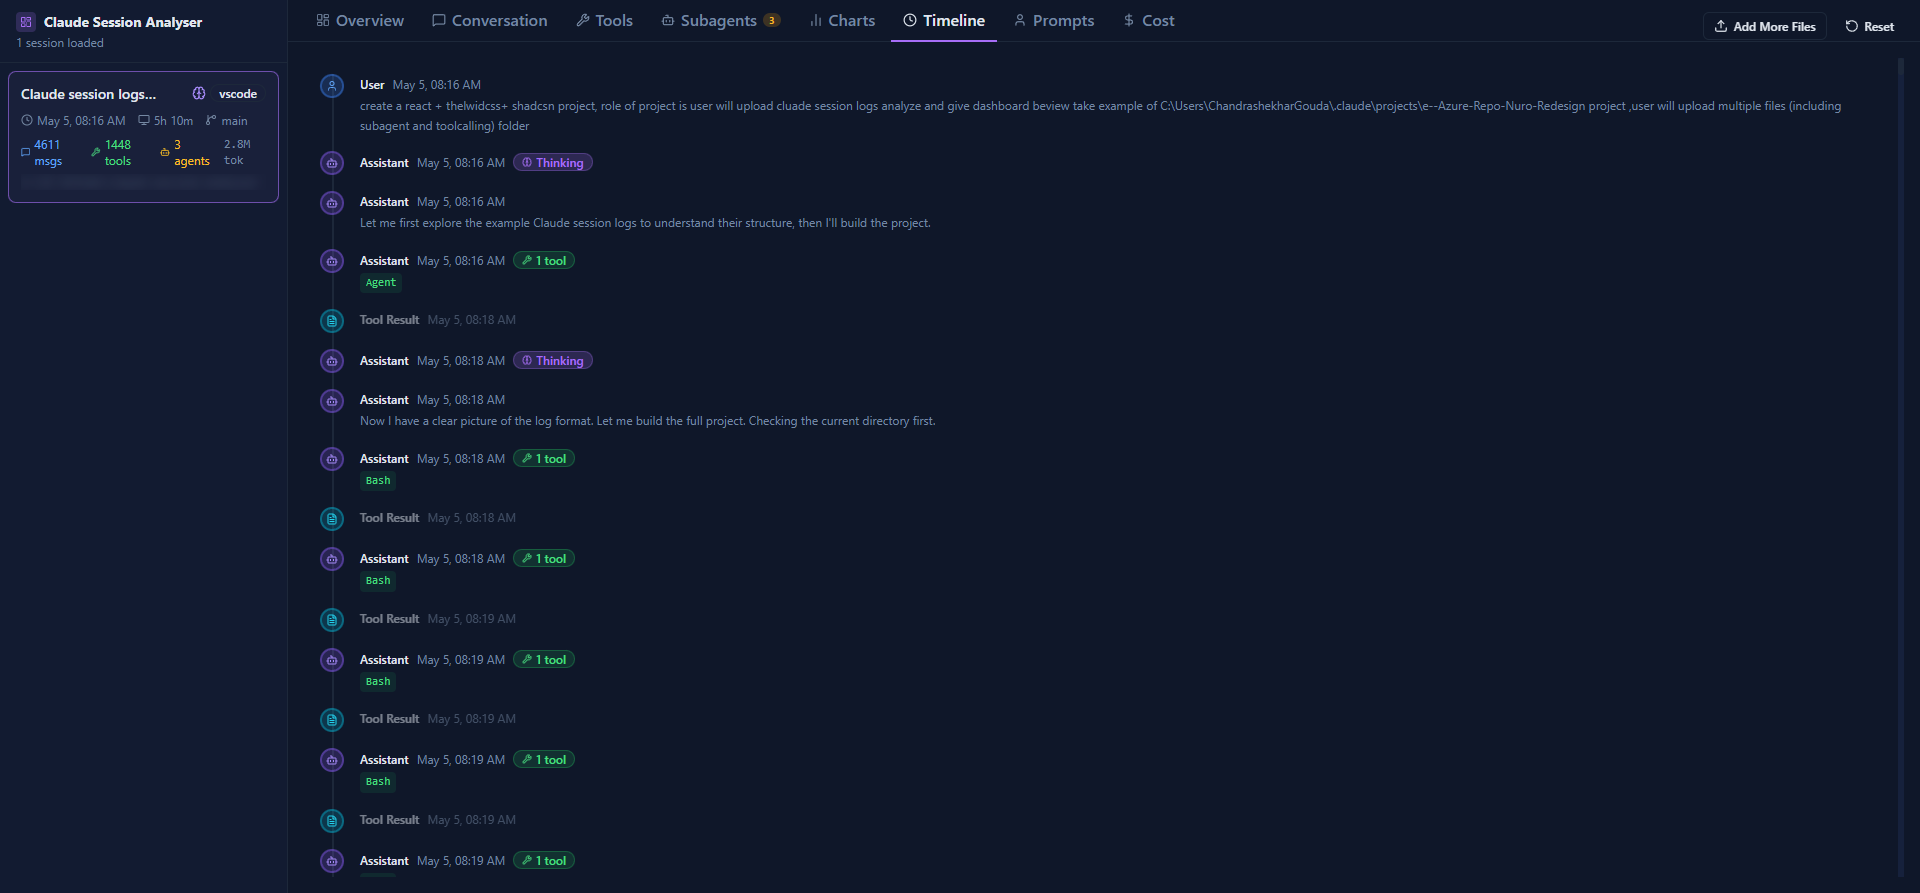
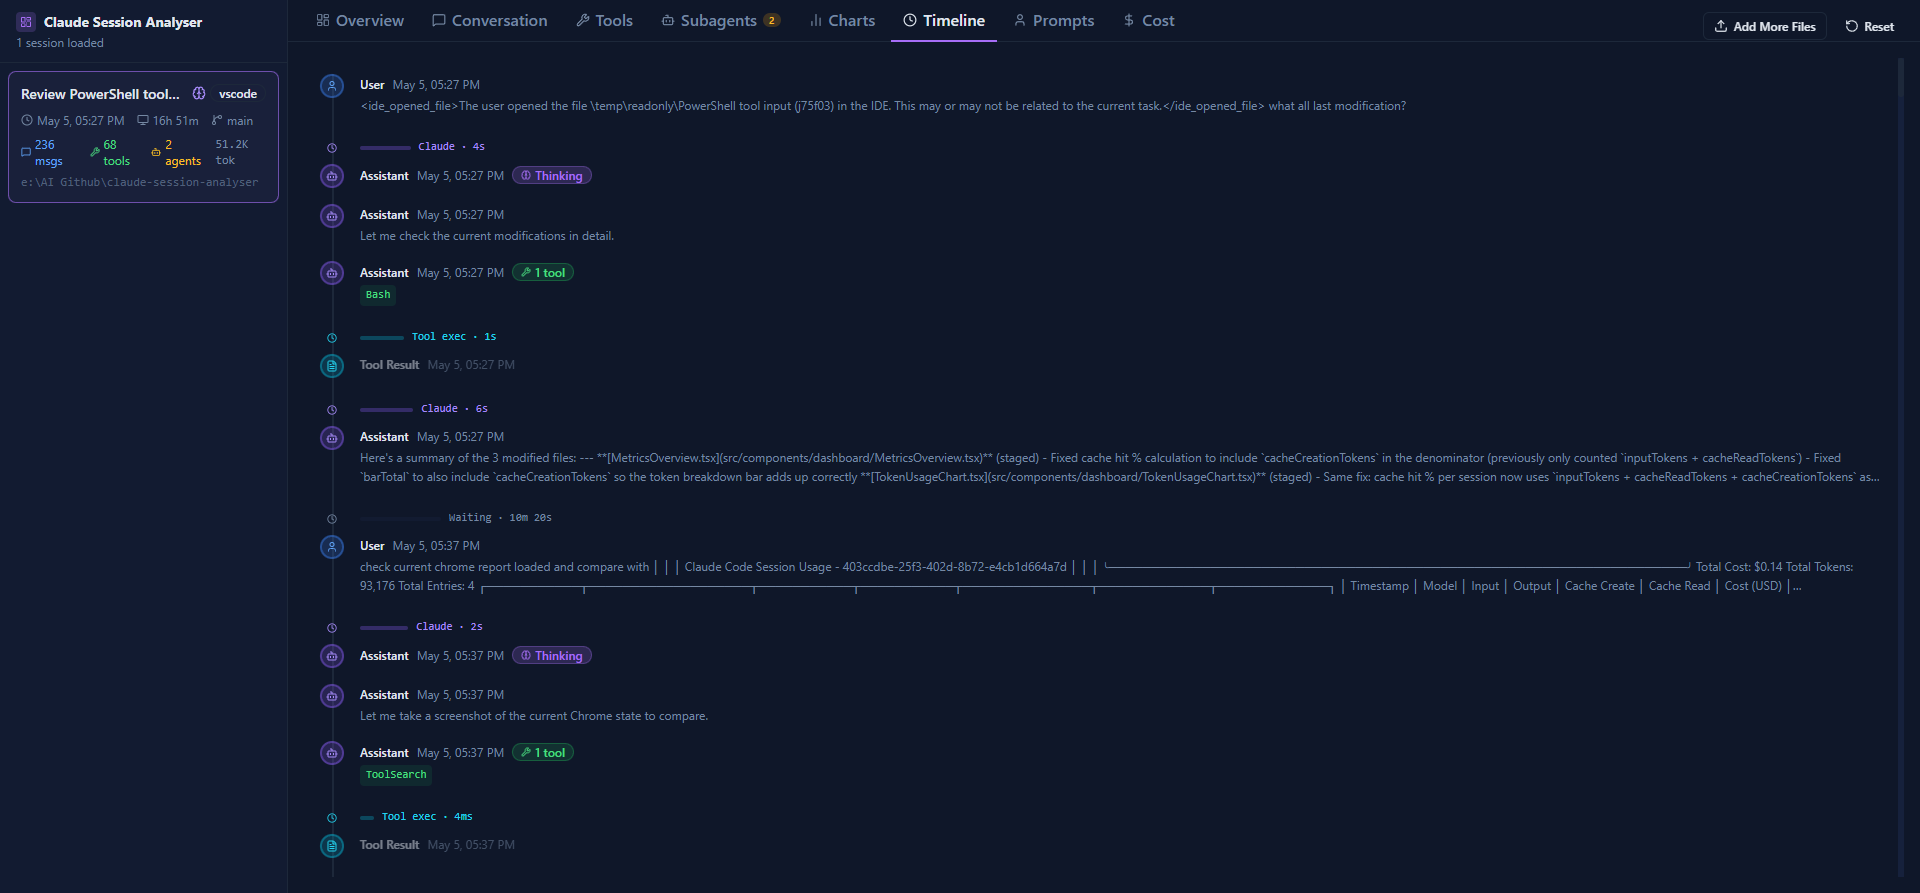
added wait in timeline

diff --git a/src/components/dashboard/TimelineView.tsx b/src/components/dashboard/TimelineView.tsx
@@ -1,7 +1,8 @@
-import { User, Bot, Wrench, Brain, Bot as AgentIcon, Settings, FileText } from "lucide-react"
+import { User, Bot, Wrench, Brain, Bot as AgentIcon, Settings, FileText, Clock } from "lucide-react"
 import { ScrollArea } from "@/components/ui/scroll-area"
 import { Badge } from "@/components/ui/badge"
-import { formatTimestamp } from "@/utils/logParser"
+import { Tooltip } from "@/components/ui/tooltip"
+import { formatTimestamp, formatDuration, formatNumber } from "@/utils/logParser"
 import type { ParsedMessage, ContentBlock } from "@/types/logs"
 import { cn } from "@/lib/utils"
 
@@ -13,6 +14,156 @@ function isToolResultOnly(blocks: ContentBlock[]): boolean {
   })
   return nonEmpty.length > 0 && nonEmpty.every((b) => b.type === "tool_result")
 }
+
+type GapKind = "claude-gen" | "tool-exec" | "user-wait"
+
+interface Gap {
+  kind: GapKind
+  ms: number
+  fromTs: string
+  toTs: string
+}
+
+function classifyGap(prev: ParsedMessage, next: ParsedMessage): Gap | null {
+  const ms = new Date(next.timestamp).getTime() - new Date(prev.timestamp).getTime()
+  if (ms <= 0) return null
+
+  const prevIsAssistantWithTools = prev.role === "assistant" && prev.toolCalls.length > 0
+  const nextIsToolResult = next.role === "user" && !next.isMeta && isToolResultOnly(next.contentBlocks)
+  const prevIsToolResult = prev.role === "user" && !prev.isMeta && isToolResultOnly(prev.contentBlocks)
+  const prevIsUser = prev.role === "user" && !prev.isMeta && !isToolResultOnly(prev.contentBlocks)
+
+  const base = { ms, fromTs: prev.timestamp, toTs: next.timestamp }
+
+  if (prevIsAssistantWithTools && nextIsToolResult) return { kind: "tool-exec", ...base }
+  if ((prevIsUser || prevIsToolResult) && next.role === "assistant" && !next.isMeta) return { kind: "claude-gen", ...base }
+  if (prev.role === "assistant" && !prev.isMeta && next.role === "user" && !next.isMeta && !nextIsToolResult) return { kind: "user-wait", ...base }
+  return null
+}
+
+// ── Tooltip content builders ──────────────────────────────────────────────────
+
+function TooltipRow({ label, value, className }: { label: string; value: React.ReactNode; className?: string }) {
+  return (
+    <div className="flex items-start gap-2">
+      <span className="text-muted-foreground shrink-0 w-20">{label}</span>
+      <span className={cn("font-medium text-foreground", className)}>{value}</span>
+    </div>
+  )
+}
+
+function AssistantTooltip({ message }: { message: ParsedMessage }) {
+  const u = message.usage
+  return (
+    <div className="flex flex-col gap-1 min-w-[200px] max-w-xs">
+      <div className="font-semibold text-violet-400 mb-1">Assistant</div>
+      {message.model && <TooltipRow label="Model" value={message.model.replace("claude-", "Claude ")} />}
+      <TooltipRow label="Time" value={formatTimestamp(message.timestamp)} />
+      {u && (
+        <>
+          <div className="border-t border-border my-1" />
+          <TooltipRow label="Input" value={`${formatNumber(u.input_tokens ?? 0)} tok`} />
+          <TooltipRow label="Output" value={`${formatNumber(u.output_tokens ?? 0)} tok`} />
+          {(u.cache_read_input_tokens ?? 0) > 0 && (
+            <TooltipRow label="Cache read" value={`${formatNumber(u.cache_read_input_tokens ?? 0)} tok`} className="text-cyan-400" />
+          )}
+          {(u.cache_creation_input_tokens ?? 0) > 0 && (
+            <TooltipRow label="Cache write" value={`${formatNumber(u.cache_creation_input_tokens ?? 0)} tok`} className="text-yellow-400" />
+          )}
+        </>
+      )}
+      {message.hasThinking && <TooltipRow label="Thinking" value="yes" className="text-pink-400" />}
+      {message.toolCalls.length > 0 && (
+        <>
+          <div className="border-t border-border my-1" />
+          <div className="text-muted-foreground mb-0.5">Tools called</div>
+          {message.toolCalls.map((tc) => (
+            <span key={tc.id} className="font-mono text-[11px] text-green-400">{tc.name}</span>
+          ))}
+        </>
+      )}
+      {message.textContent && (
+        <>
+          <div className="border-t border-border my-1" />
+          <p className="text-muted-foreground leading-relaxed line-clamp-4 whitespace-normal">
+            {message.textContent.slice(0, 300)}{message.textContent.length > 300 ? "…" : ""}
+          </p>
+        </>
+      )}
+    </div>
+  )
+}
+
+function UserTooltip({ message }: { message: ParsedMessage }) {
+  return (
+    <div className="flex flex-col gap-1 min-w-[180px] max-w-xs">
+      <div className="font-semibold text-blue-400 mb-1">User</div>
+      <TooltipRow label="Time" value={formatTimestamp(message.timestamp)} />
+      {message.textContent && (
+        <>
+          <div className="border-t border-border my-1" />
+          <p className="text-muted-foreground leading-relaxed whitespace-normal line-clamp-6">
+            {message.textContent.slice(0, 400)}{message.textContent.length > 400 ? "…" : ""}
+          </p>
+        </>
+      )}
+    </div>
+  )
+}
+
+function ToolResultTooltip({ message }: { message: ParsedMessage }) {
+  const results = message.contentBlocks.filter((b) => b.type === "tool_result") as Array<{
+    type: "tool_result"
+    tool_use_id?: string
+    content?: string | Array<{ type: string; text?: string }>
+  }>
+
+  return (
+    <div className="flex flex-col gap-1 min-w-[200px] max-w-xs">
+      <div className="font-semibold text-cyan-400 mb-1">Tool Result</div>
+      <TooltipRow label="Time" value={formatTimestamp(message.timestamp)} />
+      <TooltipRow label="Results" value={`${results.length} block${results.length !== 1 ? "s" : ""}`} />
+      {results.slice(0, 3).map((r, i) => {
+        const text = typeof r.content === "string"
+          ? r.content
+          : Array.isArray(r.content)
+            ? r.content.map((c) => c.text ?? "").join(" ")
+            : ""
+        return text ? (
+          <div key={i} className="border-t border-border mt-1 pt-1">
+            {r.tool_use_id && (
+              <span className="font-mono text-[10px] text-muted-foreground">{r.tool_use_id.slice(0, 16)}</span>
+            )}
+            <p className="text-muted-foreground leading-relaxed whitespace-normal line-clamp-3 mt-0.5">
+              {text.slice(0, 300)}{text.length > 300 ? "…" : ""}
+            </p>
+          </div>
+        ) : null
+      })}
+    </div>
+  )
+}
+
+function GapTooltip({ gap }: { gap: Gap }) {
+  const labels: Record<GapKind, { title: string; color: string; desc: string }> = {
+    "claude-gen": { title: "Claude generation", color: "text-violet-400", desc: "Time Claude spent thinking and generating the response" },
+    "tool-exec":  { title: "Tool execution",    color: "text-cyan-400",   desc: "Time the tool took to run — Claude was idle" },
+    "user-wait":  { title: "Waiting for user",  color: "text-muted-foreground", desc: "Time before the next user message" },
+  }
+  const { title, color, desc } = labels[gap.kind]
+  return (
+    <div className="flex flex-col gap-1 min-w-[180px] max-w-xs">
+      <div className={cn("font-semibold mb-1", color)}>{title}</div>
+      <TooltipRow label="Duration" value={formatDuration(gap.ms)} />
+      <TooltipRow label="From" value={formatTimestamp(gap.fromTs)} />
+      <TooltipRow label="To" value={formatTimestamp(gap.toTs)} />
+      <div className="border-t border-border my-1" />
+      <p className="text-muted-foreground whitespace-normal">{desc}</p>
+    </div>
+  )
+}
+
+// ── Main components ───────────────────────────────────────────────────────────
 
 interface TimelineViewProps {
   messages: ParsedMessage[]
@@ -34,16 +185,50 @@ export function TimelineView({ messages }: TimelineViewProps) {
   return (
     <ScrollArea className="h-full">
       <div className="relative py-4 pr-4">
-        {/* Vertical line — left-7 = 28px aligns to dot center (pl-4=16px + w-6/2=12px) */}
         <div className="absolute left-7 top-4 bottom-4 w-0.5 bg-border" />
 
         <div className="flex flex-col gap-0">
-          {sorted.map((msg, i) => (
-            <TimelineEntry key={msg.uuid} message={msg} isLast={i === sorted.length - 1} />
-          ))}
+          {sorted.map((msg, i) => {
+            const next = sorted[i + 1]
+            const gap = next ? classifyGap(msg, next) : null
+            return (
+              <div key={msg.uuid}>
+                <TimelineEntry message={msg} isLast={i === sorted.length - 1 && !gap} />
+                {gap && <GapIndicator gap={gap} />}
+              </div>
+            )
+          })}
         </div>
       </div>
     </ScrollArea>
+  )
+}
+
+function GapIndicator({ gap }: { gap: Gap }) {
+  const configs: Record<GapKind, { label: string; bar: string; text: string }> = {
+    "claude-gen": { label: "Claude",    bar: "bg-violet-500/30", text: "text-violet-400" },
+    "tool-exec":  { label: "Tool exec", bar: "bg-cyan-500/30",   text: "text-cyan-400"   },
+    "user-wait":  { label: "Waiting",   bar: "bg-muted/40",      text: "text-muted-foreground" },
+  }
+
+  const { label, bar, text } = configs[gap.kind]
+  const width = Math.min(100, Math.max(4, Math.log10(Math.max(gap.ms, 10)) * 14))
+
+  return (
+    <div className="relative flex gap-4 pl-4 py-1">
+      <div className="flex h-6 w-6 shrink-0 items-center justify-center">
+        <Tooltip content={<GapTooltip gap={gap} />} side="right">
+          <Clock className={cn("h-2.5 w-2.5 cursor-default", text)} />
+        </Tooltip>
+      </div>
+
+      <div className="flex items-center gap-2 flex-1 min-w-0">
+        <div className={cn("h-1 rounded-full", bar)} style={{ width: `${width}px` }} />
+        <span className={cn("text-[11px] font-mono tabular-nums", text)}>
+          {label} · {formatDuration(gap.ms)}
+        </span>
+      </div>
+    </div>
   )
 }
 
@@ -52,6 +237,7 @@ function TimelineEntry({ message, isLast }: { message: ParsedMessage; isLast: bo
   const isSidechain = message.isSidechain
   const isToolReturn = message.role === "user" && !isMeta && isToolResultOnly(message.contentBlocks)
   const isUser = message.role === "user" && !isMeta && !isToolReturn
+  const isAssistant = message.role === "assistant" && !isMeta
   const hasToolCalls = message.toolCalls.length > 0
   const hasThinking = message.hasThinking
 
@@ -77,22 +263,32 @@ function TimelineEntry({ message, isLast }: { message: ParsedMessage; isLast: bo
 
   const label = isMeta ? "System" : isToolReturn ? "Tool Result" : isUser ? "User" : isSidechain ? "Subagent" : "Assistant"
 
+  const tooltipContent = isAssistant
+    ? <AssistantTooltip message={message} />
+    : isUser
+      ? <UserTooltip message={message} />
+      : isToolReturn
+        ? <ToolResultTooltip message={message} />
+        : null
+
   return (
     <div className={cn("relative flex gap-4 pl-4 pb-4", isLast && "pb-0")}>
-      {/* Dot */}
-      <div className={cn("relative z-10 flex h-6 w-6 shrink-0 items-center justify-center rounded-full border-2", dotColor)}>
-        {icon}
-      </div>
+      {/* Dot — wrapped in tooltip */}
+      <Tooltip content={tooltipContent} side="right">
+        <div className={cn(
+          "relative z-10 flex h-6 w-6 shrink-0 items-center justify-center rounded-full border-2 cursor-default",
+          dotColor
+        )}>
+          {icon}
+        </div>
+      </Tooltip>
 
       {/* Content */}
       <div className={cn("flex-1 min-w-0 pt-0.5", (isMeta || isToolReturn) && "opacity-50")}>
         <div className="flex items-center gap-2 flex-wrap">
-          <span className="text-xs font-semibold text-foreground">
-            {label}
-          </span>
+          <span className="text-xs font-semibold text-foreground">{label}</span>
           <span className="text-xs text-muted-foreground">{formatTimestamp(message.timestamp)}</span>
 
-          {/* Badges for special content */}
           {hasThinking && (
             <Badge variant="default" className="text-xs py-0 gap-0.5">
               <Brain className="h-2.5 w-2.5 mr-0.5" />Thinking
@@ -110,7 +306,6 @@ function TimelineEntry({ message, isLast }: { message: ParsedMessage; isLast: bo
           )}
         </div>
 
-        {/* Tool call names */}
         {hasToolCalls && (
           <div className="mt-1 flex flex-wrap gap-1">
             {message.toolCalls.map((tc) => (
@@ -124,7 +319,6 @@ function TimelineEntry({ message, isLast }: { message: ParsedMessage; isLast: bo
           </div>
         )}
 
-        {/* Text preview */}
         {message.textContent && (
           <p className="mt-1 text-xs text-muted-foreground line-clamp-2 leading-relaxed">
             {message.textContent}

diff --git a/src/components/ui/tooltip.tsx b/src/components/ui/tooltip.tsx
@@ -5,10 +5,16 @@ interface TooltipProps {
   content: React.ReactNode
   children: React.ReactNode
   className?: string
+  side?: "top" | "right"
 }
 
-export function Tooltip({ content, children, className }: TooltipProps) {
+export function Tooltip({ content, children, className, side = "top" }: TooltipProps) {
   const [show, setShow] = useState(false)
+
+  const positionClass = side === "right"
+    ? "left-full top-1/2 -translate-y-1/2 ml-2"
+    : "bottom-full left-1/2 -translate-x-1/2 mb-1"
+
   return (
     <span
       className="relative inline-flex"
@@ -19,8 +25,10 @@ export function Tooltip({ content, children, className }: TooltipProps) {
       {show && (
         <span
           className={cn(
-            "absolute bottom-full left-1/2 -translate-x-1/2 mb-1 z-50",
-            "rounded bg-foreground text-background px-2 py-1 text-xs whitespace-nowrap pointer-events-none",
+            "absolute z-50 pointer-events-none",
+            "rounded-md bg-[#1e1e2e] border border-border text-popover-foreground shadow-xl",
+            "px-3 py-2 text-xs",
+            positionClass,
             className
           )}
         >

diff --git a/README.md b/README.md
@@ -47,7 +47,7 @@ At-a-glance stats for the selected session: message count, tool calls, subagents
 
 ### Conversation
 
-Full chat thread with thinking blocks expanded inline. Tool calls show their inputs and outputs directly inside the message. Each assistant message displays an input + output token badge — hover it to see the full breakdown including cache reads and cache writes.
+Full chat thread with thinking blocks expanded inline. Tool calls show their inputs and outputs directly inside the message. Each assistant message displays an `input + output` token badge — hover it to see the full per-turn breakdown: input, output, cache read, and cache write tokens separately.
 
 ![Conversation](public/screenshots/conversation.png)
 
@@ -79,7 +79,13 @@ Visual token breakdown — input, output, cache read, and cache write — as bar
 
 ### Timeline
 
-Chronological list of every message and tool call with timestamps. Useful for spotting where time was spent or where a session went off track.
+Chronological list of every message and tool call with timestamps. Between each pair of entries a **gap indicator** shows exactly where time was spent:
+
+- **Claude** (violet) — time Claude spent generating the response, including thinking
+- **Tool exec** (cyan) — time the tool took to run; Claude was idle
+- **Waiting** (muted) — time before the next user message
+
+Hover any dot to see a rich tooltip: model name, token counts (input/output/cache read/cache write), thinking flag, tool names called, and message preview. Hover a gap indicator to see exact from/to timestamps and duration.
 
 ![Timeline](public/screenshots/timeline.png)
 
